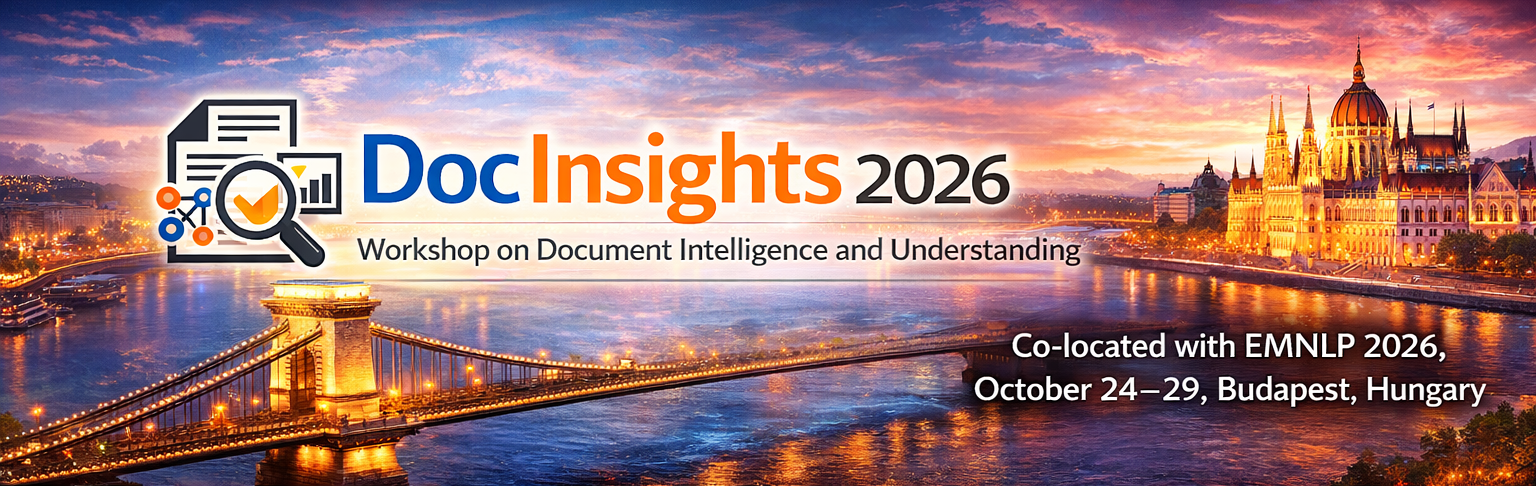
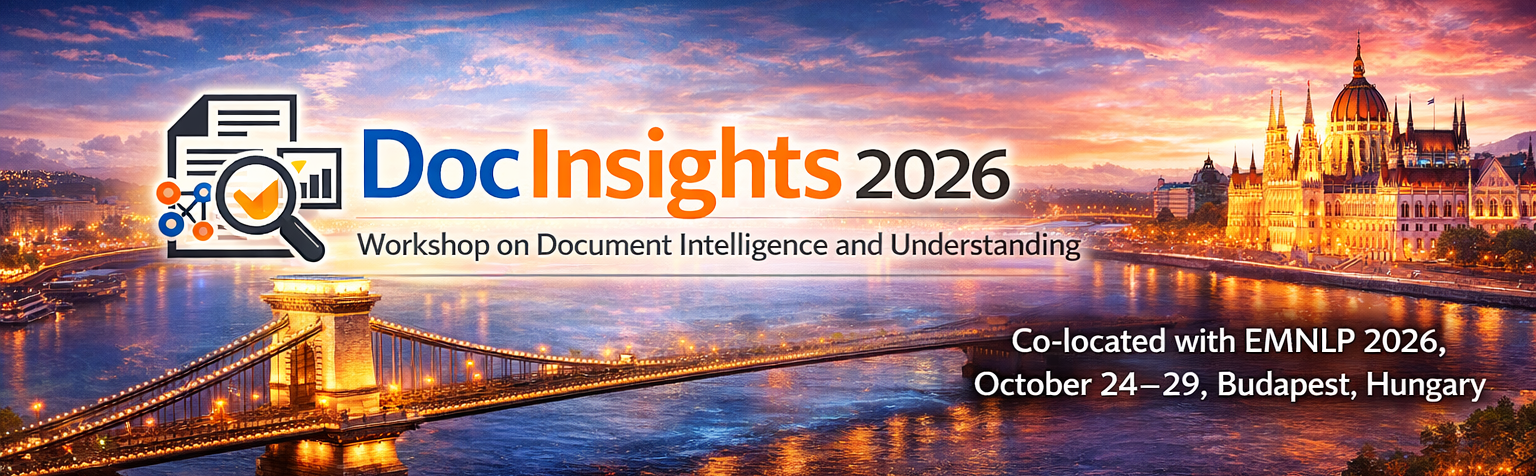
Crop 5px top+bottom, eliminate all whitespace gaps

diff --git a/assets/css/style.css b/assets/css/style.css
@@ -131,14 +131,16 @@ body {
   background: var(--color-primary);
   margin: 0;
   padding: 0;
+  overflow: hidden;
 }
 
 .hero-banner-img {
   width: 100%;
-  height: auto;
   display: block;
+  vertical-align: bottom;
   margin: 0;
   padding: 0;
+  border: 0;
 }
 
 .hero-badges {
@@ -151,6 +153,7 @@ body {
   background: var(--color-primary);
   line-height: 1;
   margin: 0;
+  border: 0;
 }
 
 .hero-meta {
